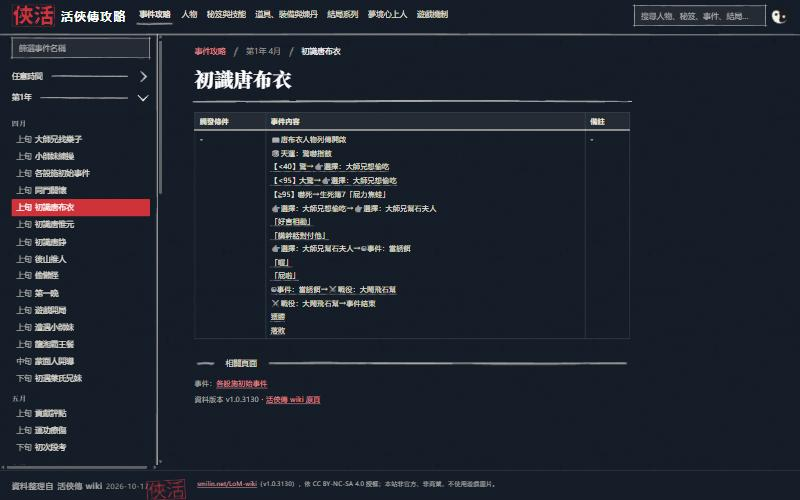
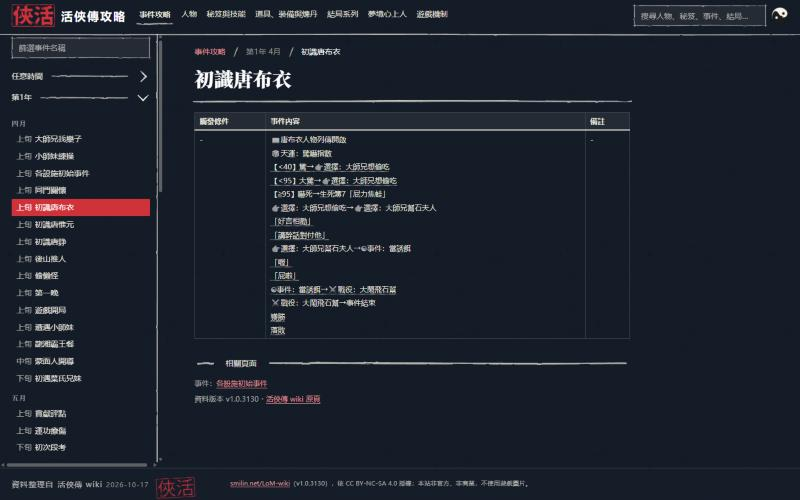
Phone footer scrolls with the page; colophon date on one line, seal clear of text

diff --git a/src/App.tsx b/src/App.tsx
@@ -100,6 +100,19 @@ export function App() {
     : null;
   const nav = activeNav(route, index);
 
+  // on phones the colophon scrolls with the page instead of taking a permanent slice of the screen
+  const footer = (
+    <footer className="foot">
+      <MSealColophon text="資料整理自" author="活俠傳 wiki" date={index?.source?.date} seal="活俠" align="right" sealSize={36} seed={5} />
+      <p>
+        <a href="https://smilin.net/LoM-wiki/" target="_blank" rel="noreferrer">
+          smilin.net/LoM-wiki
+        </a>
+        （{index?.source?.version ?? "v1.0.3130"}），依 CC BY-NC-SA 4.0 授權；本站非官方、非商業，不使用遊戲圖片。
+      </p>
+    </footer>
+  );
+
   return (
     <MConfigProvider>
       <MReadingStroke target="#main" thickness={3} />
@@ -119,16 +132,9 @@ export function App() {
             ))}
             {index && route.page === "search" && <SearchView index={index} q={route.q} />}
             {index && route.page === "home" && <Home index={index} />}
+            {narrow && footer}
           </main>
-          <footer className="foot">
-            <MSealColophon text="資料整理自" author="活俠傳 wiki" date={index?.source?.date} seal="活俠" align="right" sealSize={36} seed={5} />
-            <p>
-              <a href="https://smilin.net/LoM-wiki/" target="_blank" rel="noreferrer">
-                smilin.net/LoM-wiki
-              </a>
-              （{index?.source?.version ?? "v1.0.3130"}），依 CC BY-NC-SA 4.0 授權；本站非官方、非商業，不使用遊戲圖片。
-            </p>
-          </footer>
+          {!narrow && footer}
         </div>
       </MRicePaper>
       <MBackTop target="#main" />

diff --git a/src/styles.css b/src/styles.css
@@ -176,3 +176,8 @@ input::placeholder, textarea::placeholder { color: var(--muted); opacity: 1; }
 
 /* the colophon's seal hangs past its text; leave room so it never covers the date */
 .foot > :first-child { margin-right: 3rem; padding-bottom: 0.25rem; }
+/* a real colophon stamps beside the signature, not over its last digit */
+.m-seal-colophon__date { padding-right: 1.25rem; }
+.m-seal-colophon__date { white-space: nowrap; }
+@media (max-width: 800px) { .foot > :first-child { margin-right: 1rem; } }
+@media (max-width: 800px) { main > .foot { margin: 2rem -1rem -2.5rem; border-top: 1px solid var(--line); } }
